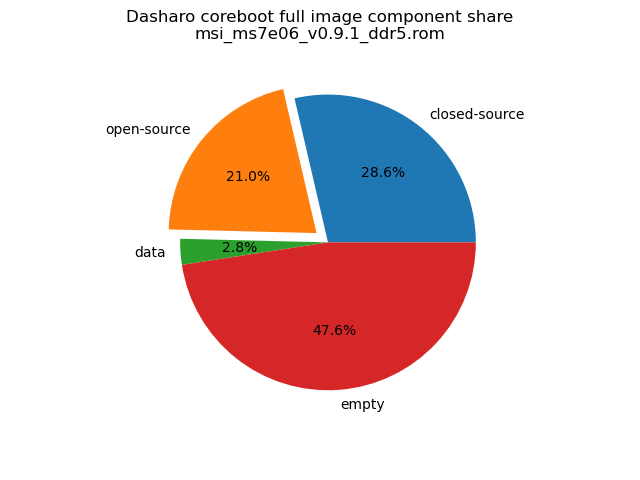
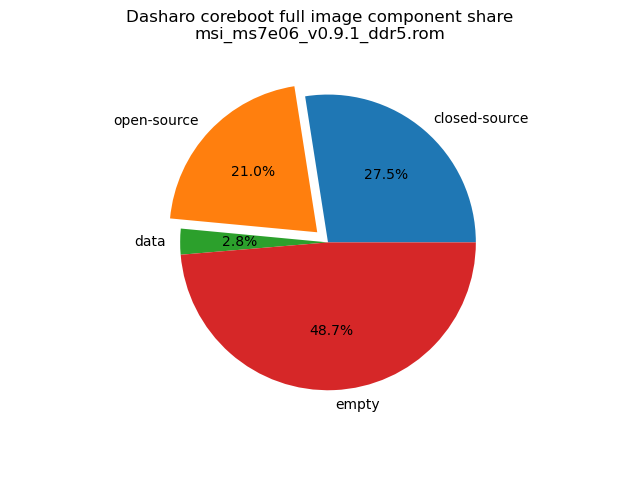
docs/variants/msi_z790: Update the v0.9.1 release info

diff --git a/docs/variants/msi_z790/releases.md b/docs/variants/msi_z790/releases.md
@@ -13,7 +13,10 @@ For details about our release process please read
 
 </center>
 
-## v0.9.1 - 2024-01-03
+## v0.9.1 - 2024-01-17
+
+Test results for this release can be found
+[here](https://docs.google.com/spreadsheets/d/1wSE6xA3K3nXewwLn5lV39_2wZL1kg5AkGb4mvmG3bwE/edit#gid=1753841105).
 
 ### Added
 
@@ -25,11 +28,11 @@ For details about our release process please read
 - [Serial Console Redirection option](https://docs.dasharo.com/dasharo-menu-docs/dasharo-system-features/#serial-port-configuration)
 - [Power state after power fail option](https://docs.dasharo.com/dasharo-menu-docs/dasharo-system-features/#power-management-options)
 - [Option for Resizable BARs enabling](https://docs.dasharo.com/dasharo-menu-docs/dasharo-system-features/#pcipcie-configuration)
-- [ESP partition scanning in look for grubx64.efi or shimx64.efi or Windows
-  bootmgr](https://github.com/Dasharo/dasharo-issues/issues/94)
+- [ESP partition scanning in look for grubx64.efi or shimx64.efi or Windows bootmgr](https://github.com/Dasharo/dasharo-issues/issues/94)
 - Memory speed is displayed in the firmware setup main page
 - [Added support for taking screenshots in the firmware](https://docs.dasharo.com/dev-proc/screenshots/#taking-screenshots)
 - Microsoft and Windows 2023 UEFI Secure Boot certificates
+- Disabling ME and unlocking descriptor with HMRFPO command on FUM flow
 
 ### Changed
 
@@ -48,18 +51,21 @@ For details about our release process please read
 - DDR4 variant SMBIOS product name to reflect MSI naming
 - Scope of reset to default hotkey to global in firmware setup
 - Booting DTS over iPXE via HTTPS
+- Removed the i225/i226 EFI driver from the builds in favor of native iPXE
+  driver
+- Switched iPXE repository to Dasharo fork for the native iPXE driver for
+  i225/i226
 
 ### Fixed
 
 - [No audio playback via headset](https://github.com/Dasharo/dasharo-issues/issues/483)
 - [Auto Boot Time-out is reset to 0 when F9 is pressed](https://github.com/Dasharo/dasharo-issues/issues/513)
-- [Some RPL-S CPUs ( 0xB06F2 (RPL-S C0) or 0xB06F5 (RPL-S H0)) have a problem
-  with booting on v0.9.0](https://github.com/Dasharo/dasharo-issues/issues/496)
+- [Some RPL-S CPUs ( 0xB06F2 (RPL-S C0) or 0xB06F5 (RPL-S H0)) have a problem with booting on v0.9.0](https://github.com/Dasharo/dasharo-issues/issues/496)
 - [Change boot order menu is confusing](https://github.com/Dasharo/dasharo-issues/issues/422)
-- [The setup menu does not issue a reset, resulting in saved but unapplied
-  settings](https://github.com/Dasharo/dasharo-issues/issues/398)
-- [PCI Express Resizable BAR programming](https://github.com/Dasharo/dasharo-issues/)
+- [The setup menu does not issue a reset, resulting in saved but unapplied settings](https://github.com/Dasharo/dasharo-issues/issues/398)
+- [PCI Express Resizable BAR programming](https://github.com/Dasharo/dasharo-issues/issues/565)
 - [PCI Express resource allocation for Intel ARC A750](https://github.com/Dasharo/dasharo-issues/issues/584)
+- [CPU frequency not displayed on setup front page](https://github.com/Dasharo/dasharo-issues/issues/662)
 - P2SB BAR not properly reserved in ACPI
 - Power LED not blinking during S3 sleep
 - PS/2 controller not enabled at first boot after flashing
@@ -70,22 +76,26 @@ For details about our release process please read
 
 - [Windows 11 installer unable to detect i225 Ethernet NIC](https://github.com/Dasharo/dasharo-issues/issues/482)
 - [Cannot wake from suspend via RTC on QubesOS](https://github.com/Dasharo/dasharo-issues/issues/484)
-- [Windows 11 VBS (Virtualization-based Security) appears Not enabled on
-  System Information](https://github.com/Dasharo/dasharo-issues/issues/539)
+- [Windows 11 VBS (Virtualization-based Security) appears Not enabled on System Information](https://github.com/Dasharo/dasharo-issues/issues/539)
+- [No ability to change active PCR banks with TPM PPI in FW](https://github.com/Dasharo/dasharo-issues/issues/521)
 
 ### Binaries
 
 [sha256][msi_ms7e06_v0.9.1_ddr4.rom_hash]{.md-button}
 [sha256.sig][msi_ms7e06_v0.9.1_ddr4.rom_sig]{.md-button}
+(msi_ms7e06_v0.9.1_ddr4)
 
 [sha256][msi_ms7e06_v0.9.1_ddr4_dev_signed.rom_hash]{.md-button}
 [sha256.sig][msi_ms7e06_v0.9.1_ddr4_dev_signed.rom_sig]{.md-button}
+(msi_ms7e06_v0.9.1_ddr4_dev_signed)
 
 [sha256][msi_ms7e06_v0.9.1_ddr5.rom_hash]{.md-button}
 [sha256.sig][msi_ms7e06_v0.9.1_ddr5.rom_sig]{.md-button}
+(msi_ms7e06_v0.9.1_ddr5)
 
 [sha256][msi_ms7e06_v0.9.1_ddr5_dev_signed.rom_hash]{.md-button}
 [sha256.sig][msi_ms7e06_v0.9.1_ddr5_dev_signed.rom_sig]{.md-button}
+(msi_ms7e06_v0.9.1_ddr5_dev_signed)
 
 This is a Dasharo Entry Subscription Release. To obtain access to the pre-built
 binaries you will have to
@@ -99,12 +109,12 @@ using [this key](https://raw.githubusercontent.com/3mdeb/3mdeb-secpack/master/da
 
 ### SBOM (Software Bill of Materials)
 
-- [Dasharo coreboot fork based on 4.21 revision e704a403](https://github.com/Dasharo/coreboot/tree/e704a403)
+- [Dasharo coreboot fork based on 4.21 revision 2c5426c3](https://github.com/Dasharo/coreboot/tree/2c5426c3)
 - [Dasharo EDKII fork based on edk2-stable202002 revision 11746340](https://github.com/Dasharo/edk2/tree/11746340)
-- [iPXE based on 2023.8 revision 9e99a55b](https://github.com/ipxe/ipxe/tree/9e99a55b)
+- [iPXE based on 2023.12 revision 838611b3](https://github.com/Dasharo/ipxe/tree/838611b3)
 - [vboot based on 0c11187c75 revision 0c11187c](https://chromium.googlesource.com/chromiumos/platform/vboot_reference/+/0c11187c/)
-- [Intel Management Engine based on v16.1.30.2307 revision d4e4dca1](https://github.com/Dasharo/dasharo-blobs/blob/d4e4dca1/msi/ms7e06/me.bin)
-- [Intel Flash Descriptor based on v1.1 revision d4e4dca1](https://github.com/Dasharo/dasharo-blobs/blob/d4e4dca1/msi/ms7e06/descriptor.bin)
+- [Intel Management Engine based on v16.1.30.2307 revision 18aab76c](https://github.com/Dasharo/dasharo-blobs/blob/18aab76c/msi/ms7e06/me.bin)
+- [Intel Flash Descriptor based on v1.1 revision 18aab76c](https://github.com/Dasharo/dasharo-blobs/blob/18aab76c/msi/ms7e06/descriptor.bin)
 - [Intel Firmware Support Package based on RPL-S C.0.BD.40 revision 481ea7cf](https://github.com/intel/FSP/tree/481ea7cf/RaptorLakeFspBinPkg/Client/RaptorLakeS)
 - [Intel microcode based on ADL/RPL C0/H0 0x0000002e revision microcode-20230808](https://github.com/intel/Intel-Linux-Processor-Microcode-Data-Files/tree/microcode-20230808/intel-ucode/06-97-05)
 - [Intel microcode based on RPL B0 0x00000119 revision microcode-20230808](https://github.com/intel/Intel-Linux-Processor-Microcode-Data-Files/tree/microcode-20230808/intel-ucode/06-b7-01)
@@ -164,3 +174,11 @@ subscription via Dasharo Entry Subscription newsletter.
 - [Intel microcode based on RPL B0 0x00000113 revision microcode-20230613](https://github.com/intel/Intel-Linux-Processor-Microcode-Data-Files/tree/microcode-20230613/intel-ucode/06-b7-01)
 
 [newsletter]: https://newsletter.3mdeb.com/subscription/KgJ7V_mmJ
+[msi_ms7e06_v0.9.1_ddr4.rom_hash]: https://dl.3mdeb.com/open-source-firmware/Dasharo/msi_ms7e06/v0.9.1/msi_ms7e06_v0.9.1_ddr4.rom.sha256
+[msi_ms7e06_v0.9.1_ddr4.rom_sig]: https://dl.3mdeb.com/open-source-firmware/Dasharo/msi_ms7e06/v0.9.1/msi_ms7e06_v0.9.1_ddr4.rom.sha256.sig
+[msi_ms7e06_v0.9.1_ddr4_dev_signed.rom_hash]: https://dl.3mdeb.com/open-source-firmware/Dasharo/msi_ms7e06/v0.9.1/msi_ms7e06_v0.9.1_ddr4_dev_signed.rom.sha256
+[msi_ms7e06_v0.9.1_ddr4_dev_signed.rom_sig]: https://dl.3mdeb.com/open-source-firmware/Dasharo/msi_ms7e06/v0.9.1/msi_ms7e06_v0.9.1_ddr4_dev_signed.rom.sha256.sig
+[msi_ms7e06_v0.9.1_ddr5.rom_hash]: https://dl.3mdeb.com/open-source-firmware/Dasharo/msi_ms7e06/v0.9.1/msi_ms7e06_v0.9.1_ddr5.rom.sha256
+[msi_ms7e06_v0.9.1_ddr5.rom_sig]: https://dl.3mdeb.com/open-source-firmware/Dasharo/msi_ms7e06/v0.9.1/msi_ms7e06_v0.9.1_ddr5.rom.sha256.sig
+[msi_ms7e06_v0.9.1_ddr5_dev_signed.rom_hash]: https://dl.3mdeb.com/open-source-firmware/Dasharo/msi_ms7e06/v0.9.1/msi_ms7e06_v0.9.1_ddr5_dev_signed.rom.sha256
+[msi_ms7e06_v0.9.1_ddr5_dev_signed.rom_sig]: https://dl.3mdeb.com/open-source-firmware/Dasharo/msi_ms7e06/v0.9.1/msi_ms7e06_v0.9.1_ddr5_dev_signed.rom.sha256.sig

diff --git a/docs/variants/msi_z790/openness_score.md b/docs/variants/msi_z790/openness_score.md
@@ -10,16 +10,16 @@ utility](https://github.com/Dasharo/Openness-Score).
 
 Openness Score for msi_ms7e06_v0.9.1_ddr5.rom
 
-Open-source code percentage: **42.3%**
-Closed-source code percentage: **57.7%**
+Open-source code percentage: **43.4%**
+Closed-source code percentage: **56.6%**
 
 * Image size: 33554432 (0x2000000)
 * Number of regions: 37
 * Number of CBFSes: 4
-* Total open-source code size: 7037206 (0x6b6116)
-* Total closed-source code size: 9608432 (0x929cf0)
-* Total data size: 948320 (0xe7860)
-* Total empty size: 15960474 (0xf3899a)
+* Total open-source code size: 7057492 (0x6bb054)
+* Total closed-source code size: 9218180 (0x8ca884)
+* Total data size: 948366 (0xe788e)
+* Total empty size: 16330394 (0xf92e9a)
 
 ![](msi_ms7e06_v0.9.1_ddr5.rom_openness_chart.png)
 
@@ -76,10 +76,10 @@ Closed-source code percentage: **57.7%**
 
 * CBFS size: 4816640
 * Number of files: 13
-* Open-source files size: 2316018 (0x2356f2)
-* Closed-source files size: 1631312 (0x18e450)
-* Data size: 8583 (0x2187)
-* Empty size: 860727 (0xd2237)
+* Open-source files size: 2322780 (0x23715c)
+* Closed-source files size: 1501228 (0x16e82c)
+* Data size: 8609 (0x21a1)
+* Empty size: 984023 (0xf03d7)
 
 > Numbers given above are already normalized (i.e. they already include size
 > of metadata and possible closed-source LAN drivers included in the payload
@@ -88,27 +88,27 @@ Closed-source code percentage: **57.7%**
 | CBFS filename | CBFS filetype | Size | Compression | Category |
 | ------------- | ------------- | ---- | ----------- | -------- |
 | fallback/romstage | stage | 103440 | none | open-source |
-| fallback/ramstage | stage | 150421 | LZMA | open-source |
+| fallback/ramstage | stage | 150907 | LZMA | open-source |
 | fallback/dsdt.aml | raw | 11264 | none | open-source |
 | fallback/postcar | stage | 69188 | none | open-source |
-| fallback/payload | simple elf | 2111789 | none | open-source |
+| fallback/payload | simple elf | 1987981 | none | open-source |
 | cpu_microcode_blob.bin | microcode | 431104 | none | closed-source |
 | fspm.bin | fsp | 786432 | none | closed-source |
 | fsps.bin | fsp | 283692 | LZ4 | closed-source |
-| config | raw | 5390 | LZMA | data |
+| config | raw | 5379 | LZMA | data |
 | revision | raw | 850 | none | data |
 | build_info | raw | 138 | none | data |
 | vbt.bin | raw | 1258 | LZMA | data |
-| (empty) | null | 1252 | none | empty |
+| (empty) | null | 740 | none | empty |
 
 ### CBFS FW_MAIN_B
 
 * CBFS size: 4259584
 * Number of files: 13
-* Open-source files size: 2316018 (0x2356f2)
-* Closed-source files size: 1631312 (0x18e450)
-* Data size: 8583 (0x2187)
-* Empty size: 303671 (0x4a237)
+* Open-source files size: 2322780 (0x23715c)
+* Closed-source files size: 1501228 (0x16e82c)
+* Data size: 8609 (0x21a1)
+* Empty size: 426967 (0x683d7)
 
 > Numbers given above are already normalized (i.e. they already include size
 > of metadata and possible closed-source LAN drivers included in the payload
@@ -117,27 +117,27 @@ Closed-source code percentage: **57.7%**
 | CBFS filename | CBFS filetype | Size | Compression | Category |
 | ------------- | ------------- | ---- | ----------- | -------- |
 | fallback/romstage | stage | 103440 | none | open-source |
-| fallback/ramstage | stage | 150421 | LZMA | open-source |
+| fallback/ramstage | stage | 150907 | LZMA | open-source |
 | fallback/dsdt.aml | raw | 11264 | none | open-source |
 | fallback/postcar | stage | 69188 | none | open-source |
-| fallback/payload | simple elf | 2111789 | none | open-source |
+| fallback/payload | simple elf | 1987981 | none | open-source |
 | cpu_microcode_blob.bin | microcode | 431104 | none | closed-source |
 | fspm.bin | fsp | 786432 | none | closed-source |
 | fsps.bin | fsp | 283692 | LZ4 | closed-source |
-| config | raw | 5390 | LZMA | data |
+| config | raw | 5379 | LZMA | data |
 | revision | raw | 850 | none | data |
 | build_info | raw | 138 | none | data |
 | vbt.bin | raw | 1258 | LZMA | data |
-| (empty) | null | 1252 | none | empty |
+| (empty) | null | 740 | none | empty |
 
 ### CBFS COREBOOT
 
 * CBFS size: 4161536
 * Number of files: 17
-* Open-source files size: 2405170 (0x24b332)
-* Closed-source files size: 1631312 (0x18e450)
-* Data size: 9014 (0x2336)
-* Empty size: 116040 (0x1c548)
+* Open-source files size: 2411932 (0x24cd9c)
+* Closed-source files size: 1501228 (0x16e82c)
+* Data size: 9008 (0x2330)
+* Empty size: 239368 (0x3a708)
 
 > Numbers given above are already normalized (i.e. they already include size
 > of metadata and possible closed-source LAN drivers included in the payload
@@ -146,19 +146,19 @@ Closed-source code percentage: **57.7%**
 | CBFS filename | CBFS filetype | Size | Compression | Category |
 | ------------- | ------------- | ---- | ----------- | -------- |
 | fallback/romstage | stage | 103440 | none | open-source |
-| fallback/ramstage | stage | 150421 | LZMA | open-source |
+| fallback/ramstage | stage | 150907 | LZMA | open-source |
 | fallback/dsdt.aml | raw | 11264 | none | open-source |
 | fallback/postcar | stage | 69188 | none | open-source |
-| fallback/payload | simple elf | 2111789 | none | open-source |
+| fallback/payload | simple elf | 1987981 | none | open-source |
 | bootblock | bootblock | 89152 | none | open-source |
 | cpu_microcode_blob.bin | microcode | 431104 | none | closed-source |
 | fspm.bin | fsp | 786432 | none | closed-source |
 | fsps.bin | fsp | 283692 | LZ4 | closed-source |
 | cbfs_master_header | cbfs header | 28 | none | data |
 | intel_fit | intel_fit | 80 | none | data |
-| config | raw | 5390 | LZMA | data |
+| config | raw | 5379 | LZMA | data |
 | revision | raw | 850 | none | data |
 | build_info | raw | 138 | none | data |
 | vbt.bin | raw | 1258 | LZMA | data |
-| (empty) | null | 996 | none | empty |
-| (empty) | null | 115044 | none | empty |
+| (empty) | null | 484 | none | empty |
+| (empty) | null | 238884 | none | empty |
